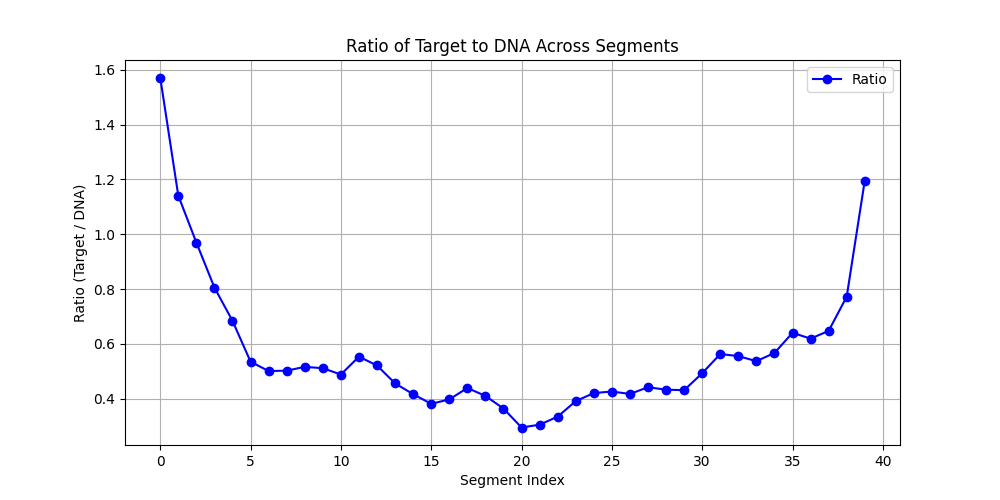
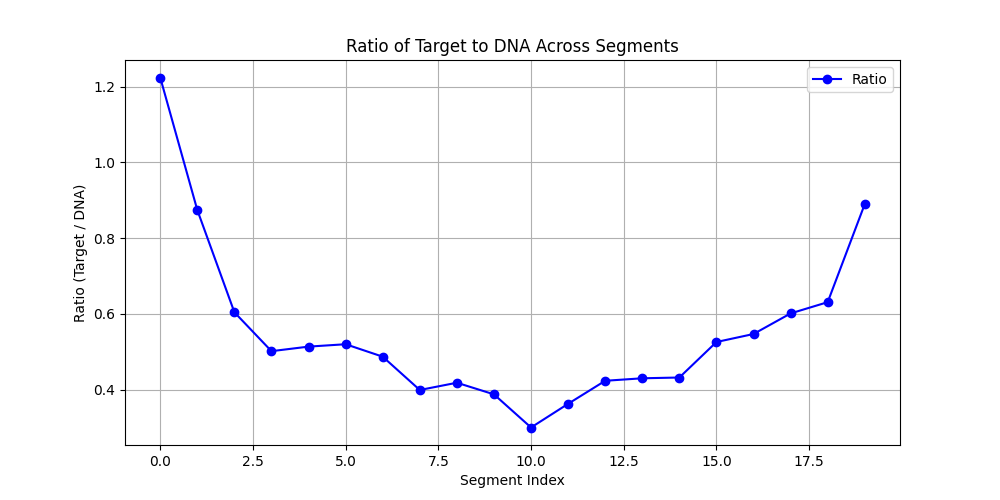
INIT

diff --git a/analyze.py b/analyze.py
@@ -3,7 +3,7 @@ import numpy as np
 from scipy.stats import norm  # ガウス分布のパーセンタイル計算用
 import matplotlib.pyplot as plt
 
-ROOT_DIR = "/Users/iwakitakuma/image_j_pro"
+ROOT_DIR = "/Users/atsushi/Downloads/count_cell_intensity"
 DATA_DIR = ROOT_DIR + "/data/"
 POSITION_DIR = ROOT_DIR + "/positions/"
 EXTRACTED_DIR = ROOT_DIR + "/extracted_data/"
@@ -12,9 +12,9 @@ RESULT_DIR = ROOT_DIR + "/results/"
 
 csv_filename = POSITION_DIR + "positions.csv"
 THRESHOLD = None
-NORM_PPF_P = 0.25
-PIXEL_RANGE = 2
-NUM_BINS = 40
+NORM_PPF_P = 0.4
+
+NUM_BINS = 20
 with open(csv_filename, "r") as csvfile:
     reader = csv.DictReader(csvfile)  # 各行を辞書として読み込む
     data = [row for row in reader]  # リストに変換
@@ -168,15 +168,13 @@ for file_name, position in data_dict.items():
 
     # グラフの描画
     plt.figure(figsize=(10, 5))
+    plt.ylim(0, max(y_values) * 1.1)
     plt.plot(x_values, y_values, marker="o", linestyle="-", color="b", label="Ratio")
 
     # 軸ラベルとタイトル
-    plt.xlabel("Segment Index")
-    plt.ylabel("Ratio (Target / DNA)")
-    plt.title("Ratio of Target to DNA Across Segments")
     plt.legend()
     plt.grid(True)
-    plt.savefig(RESULT_DIR + file_name + ".png")
+    plt.savefig(RESULT_DIR + file_name + "-ratio.png")
     txt_filename = RESULT_DIR + file_name + "-dna.txt"
     with open(txt_filename, "w", encoding="utf-8") as txtfile:
         txtfile.write(",".join(map(str, dna_average_values)))
@@ -187,5 +185,31 @@ for file_name, position in data_dict.items():
     with open(txt_filename, "w", encoding="utf-8") as txtfile:
         txtfile.write(",".join(map(str, ratio_values)))
     plt.show()
+
+    # グラフの描画
+    x_values = list(range(len(dna_average_values)))  # X軸: 各区間のインデックス
+    y_values = dna_average_values  # Y軸: 計算された比率
+    plt.figure(figsize=(10, 5))
+    plt.ylim(0, max(y_values) * 1.1)
+    plt.plot(x_values, y_values, marker="o", linestyle="-", color="b", label="Ratio")
+
+    # 軸ラベルとタイトル
+    plt.legend()
+    plt.grid(True)
+    plt.savefig(RESULT_DIR + file_name + "-dna.png")
+    plt.show()
+
+    x_values = list(range(len(target_average_values)))  # X軸: 各区間のインデックス
+    y_values = target_average_values  # Y軸: 計算された比率
+    plt.figure(figsize=(10, 5))
+    plt.ylim(0, max(y_values) * 1.1)
+    plt.plot(x_values, y_values, marker="o", linestyle="-", color="b", label="Ratio")
+
+    # 軸ラベルとタイトル
+    plt.legend()
+    plt.grid(True)
+    plt.savefig(RESULT_DIR + file_name + "-target.png")
+    plt.show()
+
 
 print("end")

diff --git a/pre_process_czi.py b/pre_process_czi.py
@@ -5,11 +5,13 @@ from matplotlib.widgets import Cursor
 import csv
 import matplotlib.pyplot as plt
 
-ROOT_DIR = "/Users/iwakitakuma/image_j_pro"
+ROOT_DIR = "/Users/atsushi/Downloads/count_cell_intensity"
 DATA_DIR = ROOT_DIR + "/data/"
 POSITION_DIR = ROOT_DIR + "/positions/"
 DEFAULT_MARGIN = 1
 file_names = ["Untitled189.czi", "Untitled197.czi"]
+# 全部読み込むようにする。
+# file_namesがあればそれのみにする。
 MARGIN_DICT = {"Untitled189.czi": 1}
 
 colors = {

diff --git a/extract_data.py b/extract_data.py
@@ -6,7 +6,7 @@ import csv
 import os
 
 
-ROOT_DIR = "/Users/iwakitakuma/image_j_pro"
+ROOT_DIR = "/Users/atsushi/Downloads/count_cell_intensity"
 DATA_DIR = ROOT_DIR + "/data/"
 POSITION_DIR = ROOT_DIR + "/positions/"
 EXTRACTED_DIR = ROOT_DIR + "/extracted_data/"
